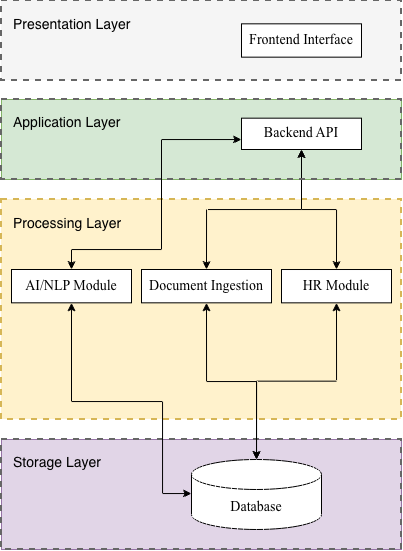
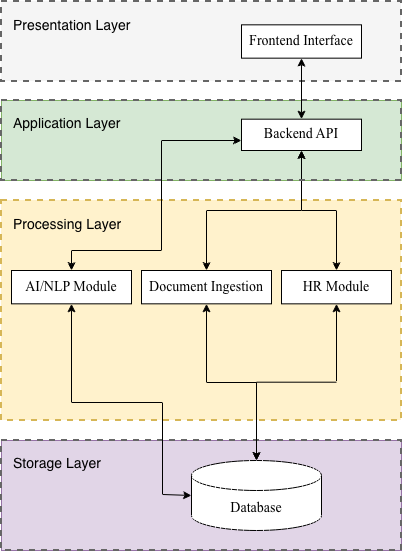
Add table auto-fit script to build process
Tables now automatically fit to window width in the generated Word
document, improving readability and consistency.

🤖 Generated with [Claude Code](https://claude.com/claude-code)

diff --git a/scripts/autofit_tables.py b/scripts/autofit_tables.py
@@ -1,0 +1,67 @@
+#!/usr/bin/env python3
+"""Make all tables auto-fit to window width in a Word document."""
+
+from docx import Document
+from docx.oxml.ns import qn
+from docx.oxml import OxmlElement
+from docx.shared import Twips
+import sys
+
+
+def set_table_autofit_window(table):
+    """Set a table to auto-fit to window width."""
+    tbl = table._tbl
+
+    # Get or create tblPr element
+    tblPr = tbl.tblPr
+    if tblPr is None:
+        tblPr = OxmlElement('w:tblPr')
+        tbl.insert(0, tblPr)
+
+    # Remove existing width settings
+    for child in tblPr.findall(qn('w:tblW')):
+        tblPr.remove(child)
+
+    # Set table width to 100% (5000 = 100% in fiftieths of a percent)
+    tblW = OxmlElement('w:tblW')
+    tblW.set(qn('w:w'), '5000')
+    tblW.set(qn('w:type'), 'pct')
+    tblPr.append(tblW)
+
+    # Remove fixed layout if present, set to autofit
+    for child in tblPr.findall(qn('w:tblLayout')):
+        tblPr.remove(child)
+
+    tblLayout = OxmlElement('w:tblLayout')
+    tblLayout.set(qn('w:type'), 'autofit')
+    tblPr.append(tblLayout)
+
+
+def autofit_tables(docx_path, output_path=None):
+    """Process all tables in a document to auto-fit to window."""
+    if output_path is None:
+        output_path = docx_path
+
+    doc = Document(docx_path)
+    table_count = len(doc.tables)
+
+    for table in doc.tables:
+        set_table_autofit_window(table)
+
+    doc.save(output_path)
+    print(f"Processed {table_count} table(s) in {docx_path}")
+
+
+def main():
+    if len(sys.argv) < 2:
+        # Default: process the SRS document
+        docx_path = 'build/SRS_Document.docx'
+    else:
+        docx_path = sys.argv[1]
+
+    output_path = sys.argv[2] if len(sys.argv) > 2 else None
+    autofit_tables(docx_path, output_path)
+
+
+if __name__ == '__main__':
+    main()
